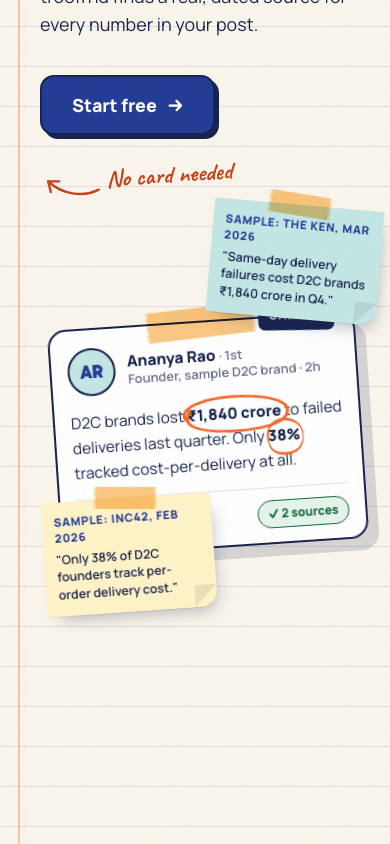
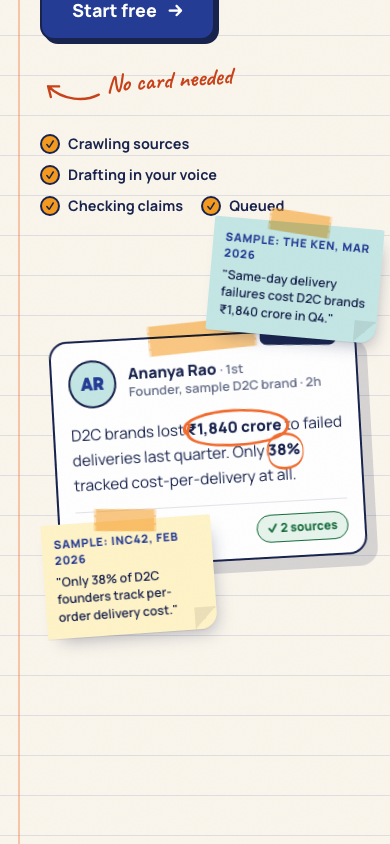
v04: full troofrnd.com content, 5 new animated sections

Changed region(s): [[0.0923, 0.0, 0.9846, 0.7701]]

diff --git a/index.html b/index.html
@@ -160,6 +160,7 @@ h2{font-family:var(--display);font-weight:900;font-size:clamp(2.3rem,4.6vw,4.1re
 .pricing{position:relative;padding:60px 0 110px}
 .price-grid{display:grid;grid-template-columns:1fr 1.05fr;gap:clamp(40px,6vw,110px);align-items:center}
 .price-copy .hand{font-size:32px;display:inline-block;transform:rotate(-3deg);margin-top:26px}
+.price-copy .sub{margin-top:4px}
 .page{position:relative;background:#fff;padding:64px clamp(26px,4vw,52px) 40px;transform:rotate(1.6deg);
   box-shadow:0 2px 0 rgba(0,0,0,.04),16px 22px 40px -18px rgba(25,36,78,.45);
   background-image:repeating-linear-gradient(to bottom,transparent 0 35px,rgba(37,60,150,.12) 35px 36px);background-position:0 18px;
@@ -177,14 +178,14 @@ h2{font-family:var(--display);font-weight:900;font-size:clamp(2.3rem,4.6vw,4.1re
 .stamp{position:absolute;right:clamp(12px,4vw,40px);top:84px;font-family:var(--display);font-weight:900;font-size:14px;letter-spacing:.14em;text-transform:uppercase;color:var(--pen);
   border:3px solid var(--pen);border-radius:10px;padding:8px 12px;transform:rotate(12deg);opacity:.9}
 .list{list-style:none;margin:26px 0 30px;padding:0 0 0 48px}
-.list li{display:flex;align-items:center;gap:14px;font-size:18px;font-weight:700;line-height:36px}
+.list li{display:flex;align-items:center;gap:14px;font-size:17px;font-weight:700;line-height:36px}
 .list svg{flex:none;width:26px;height:26px;overflow:visible}
 .list path{fill:none;stroke:#1f8a4c;stroke-width:3.2;stroke-linecap:round;stroke-linejoin:round}
 .page .btn{margin-left:48px}
 
 /* ============ FINAL ============ */
 .final{position:relative;padding:110px 0 150px;text-align:center}
-.final h2{margin:0 auto 34px;max-width:none;font-size:clamp(3rem,8vw,7.4rem)}
+.final h2{margin:0 auto 22px;max-width:14ch;font-size:clamp(2.8rem,7vw,6.4rem)}
 .final .wrap{padding-left:clamp(20px,4vw,48px)}
 .final .mark .sweep{height:.4em}
 .circ-stamp{position:absolute;right:max(4vw,24px);top:30px;width:150px;height:150px;animation:spin 22s linear infinite}
@@ -202,6 +203,113 @@ h2{font-family:var(--display);font-weight:900;font-size:clamp(2.3rem,4.6vw,4.1re
 .pill nav{display:flex;gap:2px}
 .pill nav a{text-decoration:none;padding:9px 12px;border-radius:999px}
 .pill nav a:hover{background:var(--aqua)}
+
+
+/* ============ PIPELINE (hero) ============ */
+.pipe{list-style:none;margin:30px 0 0;padding:0;display:flex;flex-wrap:wrap;gap:8px 18px;font-size:14.5px;font-weight:700}
+.pipe li{display:flex;align-items:center;gap:8px;color:var(--ink-60);transition:color .3s}
+.pipe li i{width:20px;height:20px;border-radius:50%;border:2px solid currentColor;display:grid;place-items:center;font-style:normal;font-size:11px;line-height:1;transition:background .3s,color .3s,border-color .3s}
+.pipe li.done{color:var(--ink)}
+.pipe li.done i{background:var(--marigold);border-color:var(--ink);color:var(--ink)}
+.pipe li.now i{border-style:dashed;animation:spin 2.4s linear infinite}
+
+/* ============ LOOP ============ */
+.loop{position:relative;padding:130px 0 90px}
+.loop h2,.sched h2{max-width:18ch}
+.loop-track{position:relative;display:grid;grid-template-columns:repeat(4,1fr);gap:clamp(24px,4vw,56px);margin-top:72px;padding-bottom:120px}
+.stop{position:relative;text-align:left}
+.badge{position:relative;width:96px;height:96px;border-radius:50%;background:#fff;border:2.5px solid var(--ink);display:grid;place-items:center;box-shadow:5px 6px 0 rgba(25,36,78,.16);margin-bottom:22px;z-index:2}
+.stop:nth-child(odd) .badge{transform:rotate(-6deg)}.stop:nth-child(even) .badge{transform:rotate(5deg);background:var(--aqua)}
+.stop:nth-child(3) .badge{background:#fff3c8}.stop:nth-child(4) .badge{background:var(--pink)}
+.badge svg{width:46px;height:46px;overflow:visible}
+.badge path{fill:none;stroke:var(--ink);stroke-width:2.2;stroke-linecap:round;stroke-linejoin:round}
+.stop .hand{font-size:40px;display:block;margin-bottom:6px;color:var(--cobalt)}
+.stop p{margin:0;font-size:16.5px;line-height:1.55;max-width:26ch}
+.loop-arrows{position:absolute;inset:0;overflow:visible;pointer-events:none;z-index:1}
+.loop-arrows path{fill:none;stroke:var(--pen);stroke-width:2.4;stroke-linecap:round;stroke-linejoin:round}
+.again{position:absolute;left:50%;bottom:18px;transform:translateX(-50%) rotate(-2deg);font-size:28px;white-space:nowrap}
+
+/* ============ RULES ============ */
+.rules{padding:40px 0 60px}
+.rules ul{list-style:none;margin:0;padding:0;display:grid;grid-template-columns:repeat(3,1fr);gap:clamp(20px,3vw,44px)}
+.rules li{position:relative;font-family:var(--display);font-weight:700;font-size:clamp(19px,1.7vw,23px);line-height:1.3;letter-spacing:-.01em;padding-top:52px}
+.rules li svg{position:absolute;left:-6px;top:0;width:44px;height:44px;overflow:visible}
+.rules li path{fill:none;stroke:var(--evidence);stroke-width:3;stroke-linecap:round;stroke-linejoin:round}
+.rules li .u{position:relative;white-space:nowrap}
+.rules li .u svg{position:absolute;left:0;top:auto;bottom:-10px;width:100%;height:12px}
+.rules li .u path{stroke:var(--marigold);stroke-width:4}
+
+/* ============ SCHEDULE ============ */
+.sched{padding:120px 0 110px}
+.sched-grid{display:grid;grid-template-columns:.9fr 1.1fr;gap:clamp(40px,6vw,100px);align-items:center}
+.checks{list-style:none;margin:30px 0 0;padding:0;display:grid;gap:16px}
+.checks li{display:flex;gap:14px;font-size:17px;font-weight:600;line-height:1.45}
+.checks svg{flex:none;width:26px;height:26px;margin-top:1px;overflow:visible}
+.checks path{fill:none;stroke:#1f8a4c;stroke-width:3.2;stroke-linecap:round;stroke-linejoin:round}
+.planner{position:relative;background:#fff;border:2.5px solid var(--ink);border-radius:18px;padding:22px 22px 18px;box-shadow:10px 12px 0 rgba(25,36,78,.14);transform:rotate(-1deg)}
+.planner>.tape{top:-14px;left:40%;transform:rotate(-4deg)}
+.pl-top{display:flex;justify-content:space-between;align-items:center;margin-bottom:14px;font-weight:800;font-size:14px;letter-spacing:.08em;text-transform:uppercase;color:var(--ink-60)}
+.pl-top .sample{position:static;transform:rotate(2deg)}
+.days{display:grid;grid-template-columns:repeat(5,1fr);border:2px solid var(--ink);border-radius:12px;overflow:hidden;min-height:280px}
+.day{position:relative;border-left:1.5px dashed rgba(25,36,78,.22);padding:10px 8px;background-image:repeating-linear-gradient(to bottom,transparent 0 27px,rgba(37,60,150,.08) 27px 28px)}
+.day:first-child{border-left:0}
+.day h4{margin:0 0 10px;font-family:var(--display);font-weight:800;font-size:15px}
+.day.today h4{display:inline-block;background:var(--marigold);padding:0 8px;border-radius:6px}
+.mini{position:relative;background:var(--aqua);padding:9px 9px 10px;font-size:12.5px;line-height:1.35;font-weight:700;border-radius:2px 2px 12px 2px;box-shadow:4px 7px 12px -8px rgba(25,36,78,.5);margin-bottom:10px}
+.mini small{display:block;font-weight:800;font-size:10.5px;letter-spacing:.05em;color:var(--cobalt);margin-bottom:3px}
+.mini.y{background:#fff3c8}.mini.p{background:var(--pink)}
+.mini.img::after{content:"";display:block;margin-top:7px;height:34px;border-radius:6px;border:1.5px solid var(--ink);background:linear-gradient(135deg,var(--marigold),var(--evidence))}
+.rest{font-size:22px;display:block;margin-top:40px;text-align:center;transform:rotate(-8deg)}
+.pl-foot{margin-top:14px;font-size:14px;font-weight:700;display:flex;align-items:center;gap:10px}
+.pl-foot .pulse{width:10px;height:10px;border-radius:50%;background:#1f8a4c;box-shadow:0 0 0 0 rgba(31,138,76,.5);animation:pulse 1.8s infinite}
+@keyframes pulse{70%{box-shadow:0 0 0 10px rgba(31,138,76,0)}100%{box-shadow:0 0 0 0 rgba(31,138,76,0)}}
+
+/* ============ MARIGOLD ============ */
+.mari{padding:40px 0 60px}
+.mari-card{position:relative;background:var(--marigold);border:2.5px solid var(--ink);border-radius:26px;padding:clamp(34px,5vw,70px);box-shadow:12px 14px 0 var(--ink);transform:rotate(-.8deg);
+  display:grid;grid-template-columns:1fr 1.05fr;gap:clamp(30px,5vw,80px);align-items:center;overflow:hidden}
+.mari-card::before{content:"";position:absolute;inset:0;background-image:repeating-linear-gradient(to bottom,transparent 0 39px,rgba(25,36,78,.1) 39px 40px);pointer-events:none}
+.mari-card>*{position:relative}
+.mari-card .sub{max-width:36ch}
+.mari-card .hand{color:var(--ink);font-size:30px;display:inline-block;transform:rotate(-3deg);margin-bottom:10px}
+.moon{position:absolute;right:28px;top:22px;width:54px;height:54px}
+.moon path{fill:none;stroke:var(--ink);stroke-width:2.4;stroke-linecap:round;stroke-linejoin:round}
+.log{background:var(--paper);border:2.5px solid var(--ink);border-radius:16px;padding:10px 20px;box-shadow:6px 7px 0 rgba(25,36,78,.25)}
+.row{display:grid;grid-template-columns:62px 1fr auto;align-items:center;gap:14px;padding:15px 0;border-top:1.5px dashed rgba(25,36,78,.2);font-weight:700;font-size:16px;line-height:1.35}
+.row:first-child{border-top:0}
+.row time{font-family:var(--hand);font-size:24px;color:var(--ink-60)}
+.tag{font-size:12px;font-weight:800;letter-spacing:.06em;text-transform:uppercase;padding:5px 10px;border-radius:999px;border:2px solid var(--ink);white-space:nowrap}
+.tag.auto{background:var(--marigold)}
+.tag.pass{background:#e6f4ec;color:#146b3a;border-color:#146b3a}
+.tag.you{background:var(--cobalt);color:#fff;border-color:var(--ink)}
+.row.you{position:relative}
+.row.you .tag{animation:nudge 2.4s ease-in-out infinite}
+@keyframes nudge{0%,80%,100%{transform:none}85%{transform:rotate(-6deg) scale(1.06)}90%{transform:rotate(6deg) scale(1.06)}}
+
+@media (max-width:980px){
+  .loop-track{grid-template-columns:1fr 1fr;padding-bottom:40px}
+  .loop-arrows,.again{display:none}
+  .rules ul{grid-template-columns:1fr}
+  .sched-grid,.mari-card{grid-template-columns:1fr}
+}
+@media (max-width:640px){
+  .loop{padding:80px 0 50px}
+  .loop-track{grid-template-columns:1fr;gap:34px;margin-top:44px}
+  .stop{display:grid;grid-template-columns:76px 1fr;gap:0 18px;align-items:start}
+  .badge{width:72px;height:72px;margin:0;grid-row:span 2}.badge svg{width:36px;height:36px}
+  .stop .hand{font-size:34px}
+  .sched{padding:80px 0 60px}
+  .planner{padding:16px 12px 14px}
+  .days{grid-template-columns:repeat(5,minmax(0,1fr));min-height:230px}
+  .day{padding:8px 3px;min-width:0}.day h4{font-size:12px}
+  .mini{overflow-wrap:anywhere;hyphens:auto}
+  .mini.img::after{height:22px}
+  .mini{font-size:10.5px;padding:6px 5px}.mini small{font-size:9px}
+  .rest{font-size:17px}
+  .mari-card{padding:30px 22px;box-shadow:7px 8px 0 var(--ink)}
+  .row{grid-template-columns:48px 1fr;gap:4px 12px}.row .tag{grid-column:2;justify-self:start}
+  .moon{width:40px;height:40px;right:16px;top:14px}
+}
 
 /* ============ RESPONSIVE ============ */
 @media (max-width:980px){
@@ -257,7 +365,8 @@ h2{font-family:var(--display);font-weight:900;font-size:clamp(2.3rem,4.6vw,4.1re
   <div class="wrap">
     <a class="logo" href="#top" aria-label="troofrnd home">troofrnd<i>.</i></a>
     <div class="nav-links">
-      <a class="txt" href="#story">How</a>
+      <a class="txt" href="#how">How it works</a>
+      <a class="txt" href="#story">Evidence</a>
       <a class="txt" href="#pricing">Pricing</a>
       <a class="txt" href="#">Log in</a>
       <a class="btn sm" href="#pricing">Start free</a>
@@ -277,11 +386,14 @@ h2{font-family:var(--display);font-weight:900;font-size:clamp(2.3rem,4.6vw,4.1re
           <span class="line" aria-hidden="true"><span><span class="mark">We find<span class="sweep"></span></span></span></span>
           <span class="line" aria-hidden="true"><span>the receipt.</span></span>
         </h1>
-        <p class="lede js-in">troofrnd finds a real, dated source for every number in your post.</p>
+        <p class="lede js-in">troofrnd reads today's India D2C and startup news, drafts the post in your voice, and finds a real, dated source for every number.</p>
         <div class="cta-row js-in">
           <a class="btn lg magnet" href="#pricing">Start free <span class="arr">→</span></a>
           <span class="cta-note hand"><svg viewBox="0 0 62 40" aria-hidden="true"><path class="draw" d="M58 30C44 36 22 34 8 18M8 18l2 11M8 18l11 1"/></svg>No card needed</span>
         </div>
+        <ul class="pipe js-in" id="pipe" aria-label="What troofrnd is doing">
+          <li><i>✓</i>Crawling sources</li><li><i>✓</i>Drafting in your voice</li><li><i>✓</i>Checking claims</li><li><i>✓</i>Queued</li>
+        </ul>
       </div>
 
       <div class="stage" id="stage">
@@ -319,14 +431,30 @@ h2{font-family:var(--display);font-weight:900;font-size:clamp(2.3rem,4.6vw,4.1re
   <div class="scroll-hint hand" aria-hidden="true"><svg viewBox="0 0 22 38"><path d="M11 2v32M3 26l8 9 8-9"/></svg>watch it check</div>
 </section>
 
+<!-- ================= LOOP ================= -->
+<section class="loop" id="how">
+  <div class="wrap">
+    <h2 class="rv">You bring the judgement. We bring the <span class="mark sc">receipts.<span class="sweep"></span></span></h2>
+    <p class="sub rv">Most tools hand you a blank box. This one starts from what happened this week.</p>
+    <div class="loop-track" id="loopTrack">
+      <div class="stop"><div class="badge"><svg viewBox="0 0 32 32" aria-hidden="true"><path class="draw" d="M5 7h18v19H8a3 3 0 0 1-3-3zM23 11h4v12a3 3 0 0 1-3 3M9 12h10M9 16h10M9 20h6"/></svg></div><span class="hand">Crawl</span><p>Trusted publishers, read every morning, filtered to your niche.</p></div>
+      <div class="stop"><div class="badge"><svg viewBox="0 0 32 32" aria-hidden="true"><path class="draw" d="M22 4l6 6L12 26l-8 2 2-8zM19 7l6 6"/></svg></div><span class="hand">Write</span><p>Drafted in your voice, from a Content Brain you fill in once.</p></div>
+      <div class="stop"><div class="badge"><svg viewBox="0 0 32 32" aria-hidden="true"><path class="draw" d="M14 4a10 10 0 1 1 0 20a10 10 0 1 1 0-20zM21 21l8 8M9 14l3 3 6-6"/></svg></div><span class="hand">Prove</span><p>A second model checks each claim against its source.</p></div>
+      <div class="stop"><div class="badge"><svg viewBox="0 0 32 32" aria-hidden="true"><path class="draw" d="M2 15L30 3 20 30l-6-11zM14 19L30 3"/></svg></div><span class="hand">Publish</span><p>Straight to LinkedIn, through the official API, at your hour.</p></div>
+      <svg class="loop-arrows" id="loopArrows" aria-hidden="true"></svg>
+      <span class="again hand">and again tomorrow morning</span>
+    </div>
+  </div>
+</section>
+
 <!-- ================= STORY ================= -->
 <section class="story" id="story">
   <div class="pin" id="pin">
     <div class="wrap">
       <div class="story-head">
         <div>
-          <h2>Every claim gets its receipt.</h2>
-          <p class="sub">Watch it chase each number, and cross out what fails.</p>
+          <h2>Never invent a number again.</h2>
+          <p class="sub">Every fact gets a source you can click. Opinions stay yours.</p>
         </div>
       </div>
       <div class="board" id="board">
@@ -347,13 +475,73 @@ h2{font-family:var(--display);font-weight:900;font-size:clamp(2.3rem,4.6vw,4.1re
   </div>
 </section>
 
+<!-- ================= RULES ================= -->
+<section class="rules">
+  <div class="wrap">
+    <ul>
+      <li><svg viewBox="0 0 44 44" aria-hidden="true"><path class="draw" d="M8 8l28 28M36 8L8 36"/></svg>No source, no publish. <span class="u">Not even by you.<svg viewBox="0 0 100 12" preserveAspectRatio="none" aria-hidden="true"><path class="draw" d="M2 8C30 2 70 12 98 5"/></svg></span></li>
+      <li><svg viewBox="0 0 44 44" aria-hidden="true"><path class="draw" d="M22 4a18 18 0 1 1 0 36a18 18 0 1 1 0-36zM14 22l6 6 11-12"/></svg>The checker <span class="u">never wrote<svg viewBox="0 0 100 12" preserveAspectRatio="none" aria-hidden="true"><path class="draw" d="M2 8C30 2 70 12 98 5"/></svg></span> the post.</li>
+      <li><svg viewBox="0 0 44 44" aria-hidden="true"><path class="draw" d="M34 14A14 14 0 1 0 36 26M36 6v9h-9"/></svg>Edit a line and it gets <span class="u">re-checked.<svg viewBox="0 0 100 12" preserveAspectRatio="none" aria-hidden="true"><path class="draw" d="M2 8C30 2 70 12 98 5"/></svg></span></li>
+    </ul>
+  </div>
+</section>
+
+<!-- ================= SCHEDULE ================= -->
+<section class="sched" id="schedule">
+  <div class="wrap">
+    <div class="sched-grid">
+      <div>
+        <h2 class="rv">Batch a week on Sunday. Forget it till <span class="mark sc">Friday.<span class="sweep"></span></span></h2>
+        <ul class="checks">
+          <li><svg viewBox="0 0 26 26" aria-hidden="true"><path class="draw" d="M3 14l7 7L23 4"/></svg>Official LinkedIn API. No extension pretending to be you.</li>
+          <li><svg viewBox="0 0 26 26" aria-hidden="true"><path class="draw" d="M3 14l7 7L23 4"/></svg>Text and image posts, formatted the way LinkedIn wants.</li>
+          <li><svg viewBox="0 0 26 26" aria-hidden="true"><path class="draw" d="M3 14l7 7L23 4"/></svg>A failed post tells you why, instead of vanishing.</li>
+        </ul>
+      </div>
+      <div class="planner" id="planner">
+        <span class="tape" aria-hidden="true"></span>
+        <div class="pl-top"><span>Your week</span><span class="sample">Sample</span></div>
+        <div class="days">
+          <div class="day today"><h4>Mon</h4><div class="mini"><small>9:00</small>Dark store economics</div></div>
+          <div class="day"><h4>Tue</h4><div class="mini y img"><small>9:30</small>This week in D2C</div></div>
+          <div class="day"><h4>Wed</h4><span class="rest hand">rest day</span></div>
+          <div class="day"><h4>Thu</h4><div class="mini p"><small>8:45</small>A contrarian q-comm take</div></div>
+          <div class="day"><h4>Fri</h4><div class="mini"><small>10:00</small>Why that round matters</div></div>
+        </div>
+        <div class="pl-foot"><span class="pulse" aria-hidden="true"></span>4 posts queued · next today at 9:00 IST</div>
+      </div>
+    </div>
+  </div>
+</section>
+
+<!-- ================= MARIGOLD ================= -->
+<section class="mari">
+  <div class="wrap">
+    <div class="mari-card" id="mari">
+      <svg class="moon" viewBox="0 0 54 54" aria-hidden="true"><path class="draw" d="M36 8a20 20 0 1 0 12 30A16 16 0 0 1 36 8zM44 6v6M41 9h6"/></svg>
+      <div>
+        <span class="hand">while you were asleep</span>
+        <h2>Marigold means the machine did it.</h2>
+        <p class="sub">It is never a button. You always know what the software decided and what you did.</p>
+      </div>
+      <div class="log" id="log">
+        <div class="row"><time>5:40</time><span>Read this morning's sources</span><span class="tag auto">Auto</span></div>
+        <div class="row"><time>6:10</time><span>Drafted a post in your voice</span><span class="tag auto">Auto</span></div>
+        <div class="row"><time>6:12</time><span>Checked every claim</span><span class="tag pass">✓ Passed</span></div>
+        <div class="row you"><time>9:00</time><span>Waiting on you to approve</span><span class="tag you">Your call</span></div>
+      </div>
+    </div>
+  </div>
+</section>
+
 <!-- ================= PRICING ================= -->
 <section class="pricing" id="pricing">
   <div class="wrap">
     <div class="price-grid">
       <div class="price-copy">
-        <h2>One price. No surprises.</h2>
-        <span class="hand">less than one bad post costs you ↘</span>
+        <h2>One plan. Everything in it.</h2>
+        <p class="sub">Priced for one founder writing their own posts, not a marketing team.</p>
+        <span class="hand">7-day refund, no drama ↘</span>
       </div>
       <div class="page-wrap" id="pageWrap">
         <span class="tape" aria-hidden="true"></span><span class="tape t2" aria-hidden="true"></span>
@@ -362,9 +550,11 @@ h2{font-family:var(--display);font-weight:900;font-size:clamp(2.3rem,4.6vw,4.1re
           <div class="price" id="price">₹999<small>/mo</small><svg viewBox="0 0 220 100" preserveAspectRatio="none" aria-hidden="true"><path class="draw" d="M30 18C80 2 190 4 210 44c14 34-60 52-116 50C36 92 6 74 12 46 16 26 44 12 80 8"/></svg></div>
           <span class="stamp">Sample price</span>
           <ul class="list">
-            <li><svg viewBox="0 0 26 26" aria-hidden="true"><path class="draw" d="M3 14l7 7L23 4"/></svg>Unlimited cited drafts</li>
-            <li><svg viewBox="0 0 26 26" aria-hidden="true"><path class="draw" d="M3 14l7 7L23 4"/></svg>One voice, yours</li>
-            <li><svg viewBox="0 0 26 26" aria-hidden="true"><path class="draw" d="M3 14l7 7L23 4"/></svg>Cancel any time</li>
+            <li><svg viewBox="0 0 26 26" aria-hidden="true"><path class="draw" d="M3 14l7 7L23 4"/></svg>30 source-grounded posts a month</li>
+            <li><svg viewBox="0 0 26 26" aria-hidden="true"><path class="draw" d="M3 14l7 7L23 4"/></svg>Daily news crawl for your industry</li>
+            <li><svg viewBox="0 0 26 26" aria-hidden="true"><path class="draw" d="M3 14l7 7L23 4"/></svg>Fact checks and the evidence trail</li>
+            <li><svg viewBox="0 0 26 26" aria-hidden="true"><path class="draw" d="M3 14l7 7L23 4"/></svg>Scheduling and LinkedIn publishing</li>
+            <li><svg viewBox="0 0 26 26" aria-hidden="true"><path class="draw" d="M3 14l7 7L23 4"/></svg>An image for every post</li>
           </ul>
           <a class="btn magnet" href="#">Start free <span class="arr">→</span></a>
         </div>
@@ -382,7 +572,8 @@ h2{font-family:var(--display);font-weight:900;font-size:clamp(2.3rem,4.6vw,4.1re
     <path d="M64 76l8 8 15-17" fill="none" stroke="#19244e" stroke-width="4" stroke-linecap="round" stroke-linejoin="round"/>
   </svg>
   <div class="wrap">
-    <h2>Post with <span class="mark" id="finalMark">receipts.<span class="sweep"></span></span></h2>
+    <h2>Stop guessing at the <span class="mark" id="finalMark">numbers.<span class="sweep"></span></span></h2>
+    <p class="sub" style="margin:0 auto 34px;text-align:center">Connect LinkedIn, tell it what you care about, and read your first draft tomorrow morning.</p>
     <a class="btn lg magnet" href="#">Start free <span class="arr">→</span></a>
   </div>
 </section>
@@ -419,8 +610,8 @@ function connect(svg,a,b,opt){
   var r=svg.getBoundingClientRect(),A=a.getBoundingClientRect(),B=b.getBoundingClientRect();
   var sx=opt.fromX!=null?opt.fromX-r.left:(opt.fromSide==='left'?A.left:opt.fromSide==='bottom'?A.left+A.width/2:A.right)-r.left+(opt.dx1||0);
   var sy=opt.fromY!=null?opt.fromY-r.top:(opt.fromSide==='bottom'?A.bottom:A.top+A.height/2)-r.top+(opt.dy1||0);
-  var ex=(opt.toSide==='right'?B.right:opt.toSide==='top'?B.left+B.width/2:B.left)-r.left+(opt.dx2||0);
-  var ey=(opt.toSide==='top'?B.top:B.top+B.height/2)-r.top+(opt.dy2||0);
+  var ex=(opt.toSide==='right'?B.right:(opt.toSide==='top'||opt.toSide==='bottom')?B.left+B.width/2:B.left)-r.left+(opt.dx2||0);
+  var ey=(opt.toSide==='top'?B.top:opt.toSide==='bottom'?B.bottom:B.top+B.height/2)-r.top+(opt.dy2||0);
   var bend=opt.bend||60, mx=(sx+ex)/2, my=(sy+ey)/2-bend;
   var d='M'+sx+' '+sy+' Q'+mx+' '+my+' '+ex+' '+ey;
   var ang=Math.atan2(ey-my,ex-mx),h=12;
@@ -614,8 +805,70 @@ function crowd(){
   var rt;addEventListener('resize',function(){clearTimeout(rt);rt=setTimeout(function(){size();init();once()},150)});
 }
 
+
+/* ---------- PIPELINE ticker ---------- */
+function pipe(){
+  var li=$$('#pipe li');
+  if(reduce){li.forEach(function(l){l.classList.add('done')});return}
+  var i=0;
+  function next(){
+    li.forEach(function(l,k){l.classList.toggle('done',k<i);l.classList.toggle('now',k===i)});
+    i++; if(i>li.length){setTimeout(function(){i=0;next()},2600)} else setTimeout(next,i===1?1400:900);
+  }
+  next();
+}
+/* ---------- generic reveals + highlighter sweeps ---------- */
+function reveals(){
+  if(reduce){gsap.set('.mark.sc .sweep',{scaleX:1});return}
+  $$('.rv').forEach(function(el){gsap.from(el,{y:40,opacity:0,duration:.8,ease:'power3.out',scrollTrigger:{trigger:el,start:'top 88%'}})});
+  $$('.mark.sc .sweep').forEach(function(sw){gsap.to(sw,{scaleX:1,duration:.6,ease:'power2.inOut',scrollTrigger:{trigger:sw,start:'top 75%'}})});
+}
+/* ---------- LOOP ---------- */
+function loopSec(){
+  var b=$$('#loopTrack .badge'),svg=$('#loopArrows'),arr=[];svg.innerHTML='';
+  if(innerWidth>980){
+    for(var i=0;i<3;i++) arr=arr.concat(connect(svg,b[i],b[i+1],{dx1:10,dx2:-12,bend:i%2?-34:34}));
+    arr=arr.concat(connect(svg,b[3],b[0],{fromSide:'bottom',toSide:'bottom',dy1:150,dy2:150,bend:-120}));
+  }
+  if(reduce)return;
+  var tl=gsap.timeline({scrollTrigger:{trigger:'#loopTrack',start:'top 72%'}});
+  tl.from(b,{scale:0,rotate:-40,duration:.55,stagger:.28,ease:'back.out(2.2)'})
+    .add(draw($$('#loopTrack .badge path'),{duration:.6,stagger:.28}),.1)
+    .from('#loopTrack .stop .hand, #loopTrack .stop p',{y:16,opacity:0,duration:.45,stagger:.1},.2)
+    .add(draw(arr,{duration:.5,stagger:.22}),.45)
+    .from('.again',{opacity:0,y:10,duration:.5},'-=.2');
+  gsap.to(b,{y:function(i){return i%2?-6:6},duration:1.6,repeat:-1,yoyo:true,ease:'sine.inOut',stagger:.2,delay:2});
+}
+/* ---------- RULES ---------- */
+function rules(){
+  if(reduce)return;
+  $$('.rules li').forEach(function(li,i){
+    var tl=gsap.timeline({scrollTrigger:{trigger:'.rules',start:'top 78%'},delay:i*.18});
+    tl.from(li,{y:30,opacity:0,duration:.5,ease:'power3.out'}).add(draw($$('path.draw',li),{duration:.5,stagger:.15}),'-=.2');
+  });
+}
+/* ---------- SCHEDULE ---------- */
+function sched(){
+  if(reduce)return;
+  var tl=gsap.timeline({scrollTrigger:{trigger:'#planner',start:'top 75%'}});
+  tl.from('#planner',{y:80,rotate:4,opacity:0,duration:.8,ease:'power3.out'})
+    .from('#planner .mini',{x:140,y:-40,rotate:function(i){return i%2?24:-24},opacity:0,duration:.6,stagger:.18,ease:'back.out(1.6)'},'-=.3')
+    .from('#planner .rest',{opacity:0,scale:.6,duration:.4},'-=.2')
+    .from('.pl-foot',{opacity:0,y:10,duration:.4},'-=.1');
+  gsap.timeline({scrollTrigger:{trigger:'.checks',start:'top 80%'}}).from('.checks li',{x:-20,opacity:0,duration:.4,stagger:.15}).add(draw('.checks path',{duration:.35,stagger:.15}),0.1);
+}
+/* ---------- MARIGOLD ---------- */
+function mari(){
+  if(reduce)return;
+  var tl=gsap.timeline({scrollTrigger:{trigger:'#mari',start:'top 72%'}});
+  tl.from('#mari',{scale:.94,rotate:-4,opacity:0,duration:.8,ease:'power3.out'})
+    .add(draw('.moon path',{duration:.9}),'-=.4')
+    .from('#log .row',{y:24,opacity:0,duration:.45,stagger:.35,ease:'power2.out'},'-=.6')
+    .from('#log .tag',{scale:0,duration:.35,stagger:.35,ease:'back.out(3)'},'<+.2');
+}
+
 function boot(){
-  hero(); story(); pricing(); final(); crowd();
+  hero(); pipe(); reveals(); loopSec(); story(); rules(); sched(); mari(); pricing(); final(); crowd();
   var rt,w=innerWidth;
   addEventListener('resize',function(){clearTimeout(rt);rt=setTimeout(function(){if(Math.abs(innerWidth-w)<60)return;location.reload()},300)});
 }

diff --git a/NOTES.md b/NOTES.md
@@ -1,4 +1,5 @@
-# 03 · Landing A, Margin Notebook (rebuild)
-Source content: 02-landing-directions-round2/A (unchanged). Open index.html in a browser.
-Checks: 0 console errors (1440 + 390), no horizontal scroll, 228/230 words, no em dashes, reduced-motion = static final states.
-Screens: shots/d-*.png (desktop scroll frames), shots/m-*.png (mobile), price-*.png, foot-*.png.
+# 04 · Landing A, full troofrnd.com content
+Base: 03 design (unchanged folder). Content pulled from live troofrnd.com (saved as source-troofrnd.com.html).
+New sections: hero pipeline ticker, "One loop, four moves" (Crawl/Write/Prove/Publish), 3 evidence rules, weekly schedule planner, "Marigold means the machine did it" log, fuller pricing list, new final CTA.
+Placeholders on live site ([YOUR PRICE], [N], [SOURCE]) replaced with labelled SAMPLE values (₹999, 30 posts, 7-day refund).
+Checks: 0 console errors 1440/390, no horizontal scroll, no em dashes. ~520 words (over the 200 homepage budget; Yash asked for more content).

diff --git a/README.md b/README.md
@@ -1,4 +1,4 @@
-# Troofrnd landing preview (Margin Notebook)
+# Troofrnd landing preview (Margin Notebook, v04: full troofrnd.com content)
 
 Live: https://yashgoel0810.github.io/troofrnd-landing-preview/
 
